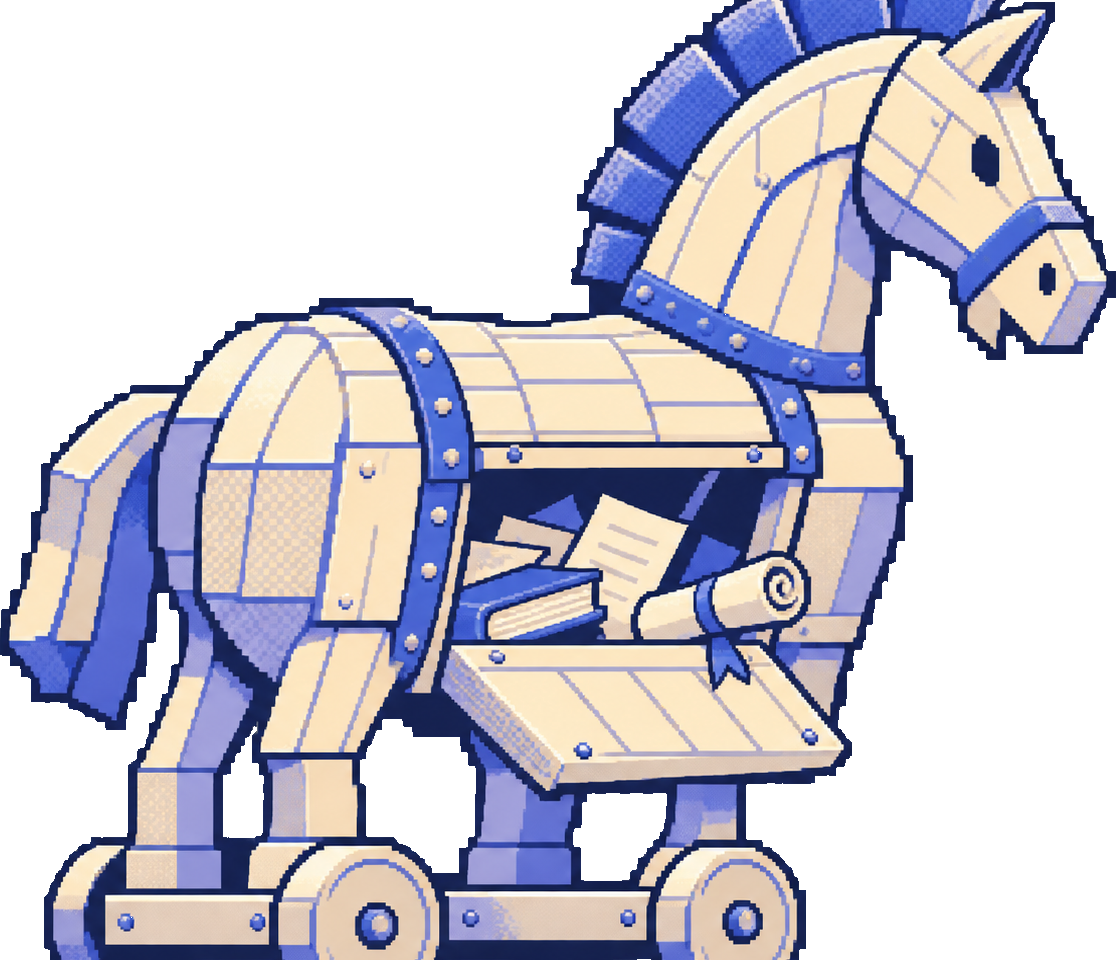
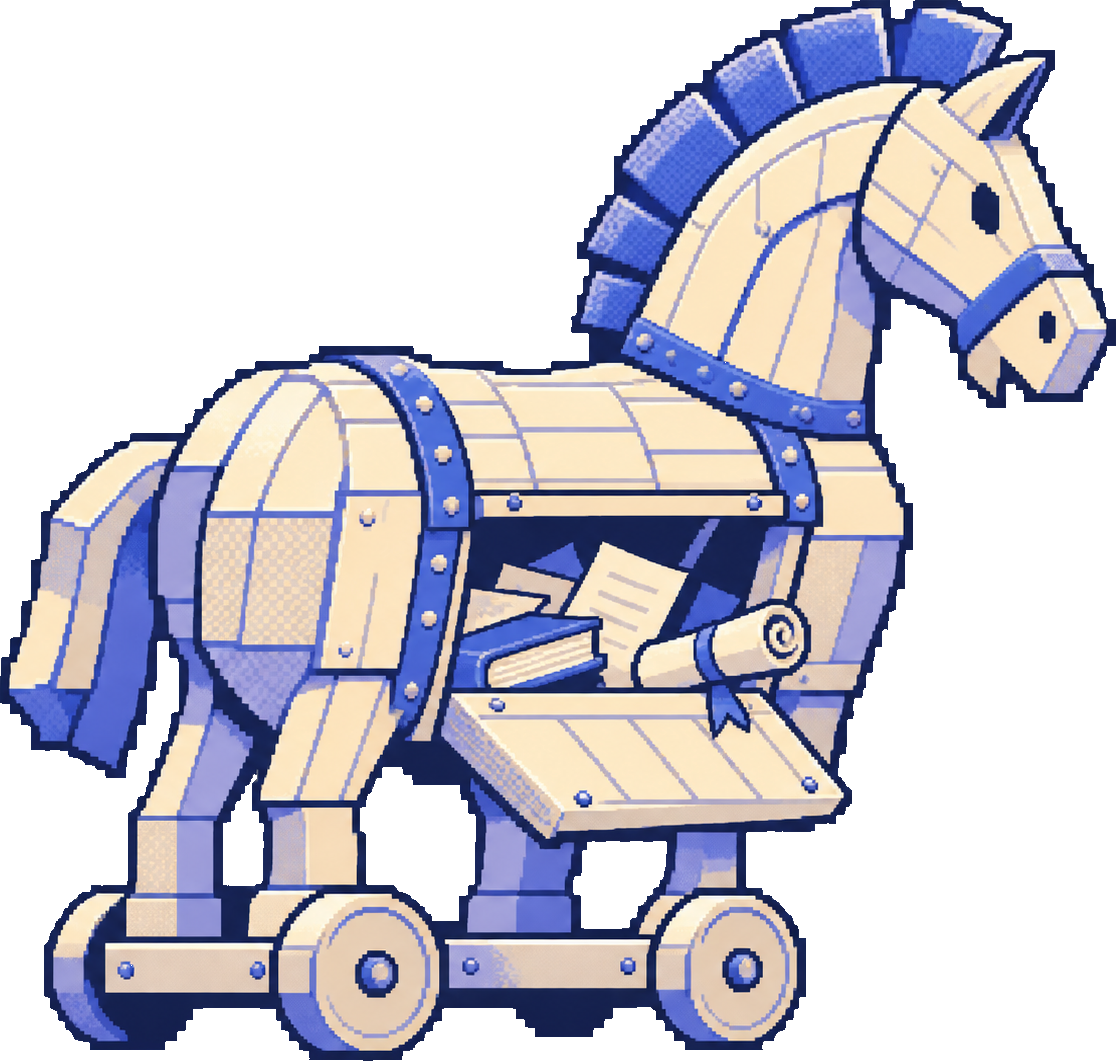
Trojan horse no longer cropped: re-cut from the full image

diff --git a/components/TrojanHorse.tsx b/components/TrojanHorse.tsx
@@ -16,7 +16,7 @@ import SZ from "./horse-sizes.json";
 const STAGE = { w: 1120, h: 540, ground: 500 };
 const HORSE = { left: 10, w: 410 };
 const HORSE_H = (HORSE.w * SZ.horse[1]) / SZ.horse[0];
-const HATCH = { x: HORSE.left + HORSE.w * 0.56, y: STAGE.ground - HORSE_H * 0.4 };
+const HATCH = { x: HORSE.left + HORSE.w * 0.56, y: STAGE.ground - HORSE_H * 0.41 };
 type Name = keyof typeof SZ;
 // what falls out, in order: [sprite, left, width, how far toward the viewer, resting tilt]
 const SPILL: [Name, number, number, number, number][] = [

diff --git a/app/globals.css b/app/globals.css
@@ -3154,3 +3154,4 @@ html.js .band--horse:not(.is-done) .horse__bio { opacity: 0; translate: 0 12px; 
 @media (max-width: 480px) { .notch__in { gap: 0.55rem; padding: 0.5rem 0.6rem 0.65rem; } .notch__links { gap: 0.6rem; font-size: 1.05rem; } .notch__cta { font-size: 1rem; padding-left: 0.6rem; padding-right: 0.6rem; } }
 .scene { overflow-x: clip; }
 @media (max-width: 480px) { .contact__mail { font-size: 1.35rem; } .ask { letter-spacing: 0.04em; } .quay { font-size: 1.05rem; } }
+.horse__cloth { top: 40.5%; height: 42%; }
